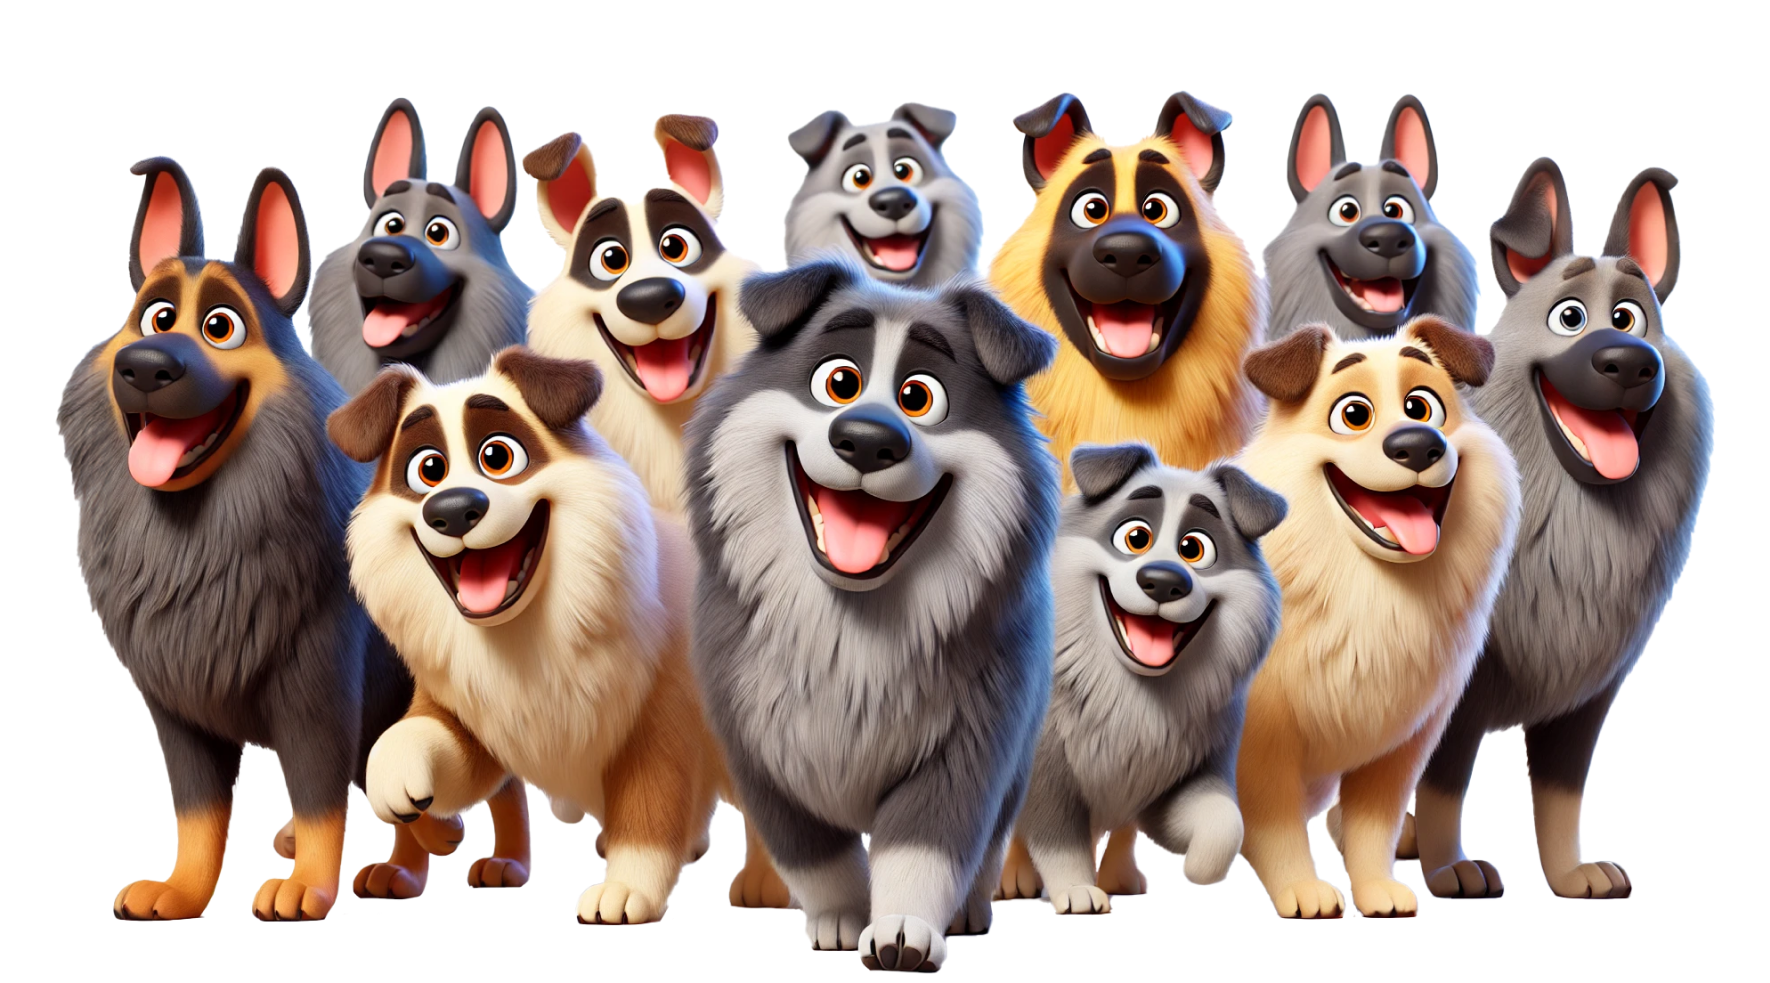
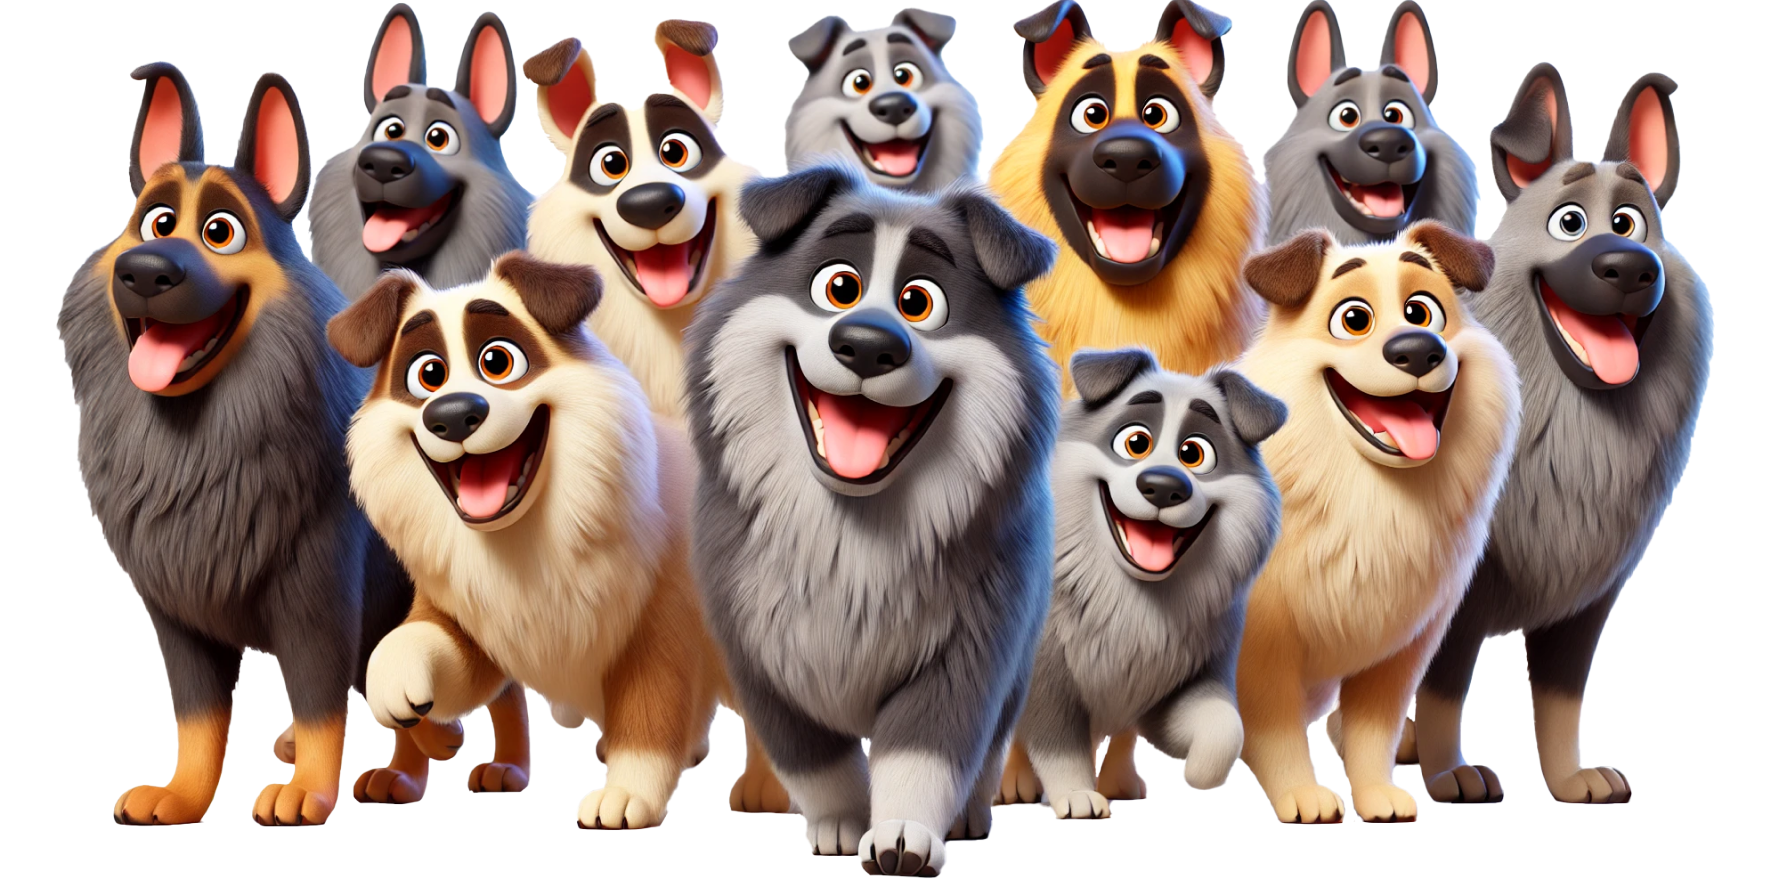
added responsiveness

diff --git a/src/index.css b/src/index.css
@@ -3,6 +3,8 @@
   src: url("../public/Fonts/cheeseburga.ttf");
 }
 
+
+
 #root{
   font-size: 16px;
 }
@@ -103,7 +105,7 @@ body {
         background-color: var(--white);
         left: 50%; 
         transform: translateX(-50%);        
-        width: 85%;
+        width: 85vw;
         height: 90vh;
         overflow-y: hidden;  
         border-radius: 1.5em 1.5em 0 0;
@@ -123,6 +125,7 @@ body {
 
 .landing-page-container{
   width: 100%;
+  
 }
 
 .landing-page-container .top-rectangle{
@@ -131,19 +134,19 @@ body {
   background: var(--lightyellow);
   margin: 1.2em auto;
   border-radius: 1.5em;
+  
 }
 
 .landing-page-container .header{
   display: flex;
   align-items:flex-start;
   justify-content: space-between;
-  height: 43.05938rem;
-
+  margin-bottom: 5em;
 }
 
 .landing-page-container .bg-triangle{
   width: 86.74263rem;
-  height: 59.05938rem;
+  height: 53.05938rem;
   transform: rotate(8deg);
   background: radial-gradient(44.22% 45.51% at 50.14% 67.33%, #FFF280 0%, #FFC700 100%);;
   position: absolute;
@@ -152,9 +155,18 @@ body {
   z-index: -1;
 }
 
-.landing-page-container .header img{
+.header .header-image{
   width: 55%;
-  margin-left: -3rem;
+  margin-left: -1rem;
+  position: relative;
+}
+
+.header-image-reflection{
+  position: absolute;
+  width: 55%;
+  margin-top: -20px;
+  left: 0px;
+  z-index: -1;
 }
 
 .landing-page-content h1{
@@ -181,6 +193,80 @@ body {
   font-weight: 700;
   line-height: 104.73%;
   margin: 0;
+}
+
+@media (max-width:800px) {
+
+  
+  .heading-white, .heading-orange{
+    font-size: 7rem;
+  }
+
+  .landing-page-main{        
+        width: 80vw;
+}
+
+.landing-page-container .header{
+  display: flex;
+  align-items: center;
+  justify-content: space-between;
+  flex-direction: column;
+}
+
+.landing-page-container .bg-triangle{
+  height: 66.05938rem;
+}
+
+.header .header-image{
+  margin-left: 0;
+}
+
+.header-image-reflection{
+  left: 50%;
+  transform: translateX(-50%);
+  margin-top: -5px;
+}
+
+.landing-page-content h1{
+  text-align: center;
+  font-size: 3rem;
+  margin-top: 1em;
+}
+
+.landing-page-content p{
+  text-wrap: pretty;
+  text-align: center;
+  font-size: 1.5rem;
+  font-style: normal;
+  font-weight: 700;
+  line-height: 104.73%;
+  margin: 0;
+}
+  
+}
+
+@media (max-width:550px) {
+
+   .heading-white, .heading-orange{
+    font-size: 6rem;
+  }
+
+
+  .landing-page-main{        
+        width: 70vw;
+}
+
+
+.landing-page-container .bg-triangle{
+  height: 60.05938rem;
+}
+
+
+.landing-page-content p{
+  font-size: 1.3rem;
+  
+}
+  
 }
 
 /* main landing page- section 2- all photos videos slider */
@@ -227,10 +313,12 @@ body {
 .project-vision-animals-reflection{
   width: 100%;
   position: absolute;
-  top: 640px;
-  left: 10px;
+  /* top: 470px; */
+  /* left: 10px; */
   transform: rotate(-2deg);
-  z-index: -1;
+  z-index: 0;
+  margin-top: 50px;
+
 }
 
 .project-vision-bg{
@@ -251,12 +339,56 @@ body {
   text-align: center;
   margin-top: 2em;
 }
+@media (max-width:950px) {
+  .project-vision-animals-reflection{
+  margin-top: 230px;
+  
+}
 
+.project-vision-bg{
+  top: 240px;
+  left: -325px;
+  height: 70rem;
+  width: 100rem;
+}
+
+@media (max-width:800px){
+  .project-vision-bg{
+  top: 240px;
+  left: -425px;
+  height: 64rem;
+  width: 100rem;
+}
+}
+
+@media (max-width: 550px) {
+  .project-vision-main{
+  margin-top: 10em;
+}
+
+.project-vision-bg{
+  position: absolute;
+  top: 240px;
+  left: -500px;
+  z-index: -2;
+  height: 49rem;
+  width: 100rem;
+}
+
+.project-vision-main p{
+  font-size: 1.6rem;
+
+}
+}
+
+
+
+}
 /* Roadmap Section */
 
 .roadmap-main{
   margin-top: 7em;
-
+  margin-bottom: 7em;
 }
 
 .roadmap-container{
@@ -282,6 +414,19 @@ font-weight: 700;
   color: var(--orange);
 }
 
+@media (max-width:800px) {
+
+.roadmap-content{
+font-size: 1.7rem;
+}
+}
+
+@media (max-width:550px) {
+
+.roadmap-content{
+font-size: 1.3rem;
+}
+}
 
 /* COMPONENTS */
 
@@ -332,3 +477,14 @@ font-weight: 700;
   filter: drop-shadow(4px 6px 6px var(--black));
 }
 
+@media (max-width:800px){
+  .slide-image{
+  width: 40%;
+} 
+}
+
+@media (max-width:500px){
+  .slide-image{
+  width: 80%;
+} 
+}

diff --git a/src/Pages/LandingPage.js b/src/Pages/LandingPage.js
@@ -6,6 +6,11 @@ import ProjectVisionBg from "../Svgs/ProjectVisionBg.svg";
 export default function LandingPage() {
   const [isScrollable, setIsScrollable] = useState(false);
   const mainDivRef = useRef(null);
+  const headerImageRef = useRef(null);
+  const projectVisionImgRef = useRef(null);
+  const [headerImageHeight, setHeaderImageHeight] = useState(null);
+  const [projectVisionImageHeight, setProjectVisionImageHeight] =
+    useState(null);
 
   useEffect(() => {
     const handleScroll = () => {
@@ -27,6 +32,35 @@ export default function LandingPage() {
     };
   }, []);
 
+  useEffect(() => {
+    const handleHeaderImageHeight = () => {
+      setHeaderImageHeight(
+        headerImageRef?.current?.getBoundingClientRect().height
+      );
+    };
+
+    const handleProjectVisionImageHeight = () => {
+      setProjectVisionImageHeight(
+        projectVisionImgRef?.current?.getBoundingClientRect().height
+      );
+    };
+
+    handleHeaderImageHeight();
+    handleProjectVisionImageHeight();
+
+    window.addEventListener("resize", () => {
+      handleHeaderImageHeight();
+      handleProjectVisionImageHeight();
+    });
+
+    return () => {
+      window.removeEventListener("resize", () => {
+        handleHeaderImageHeight();
+        handleProjectVisionImageHeight();
+      });
+    };
+  }, []);
+
   return (
     <div
       className={`landing-page-main ${isScrollable ? "scrollable" : ""}`}
@@ -37,7 +71,20 @@ export default function LandingPage() {
         <header className="header">
           <div className="bg-triangle"></div>
 
-          <img src="Images/landing-page-header.png" alt="Happy Alabay Dog" />
+          <img
+            src="Images/landing-page-header.png"
+            alt="Happy Alabay Dog"
+            className="header-image"
+            ref={headerImageRef}
+          />
+          <img
+            src="Images/landing-page-header-reflection.png"
+            alt="Happy Alabay Dog Reflection"
+            className="header-image-reflection"
+            style={{
+              top: headerImageHeight,
+            }}
+          />
           <div className="landing-page-content">
             <h1>
               History Of<span className="heading-white"> ALABAY</span>
@@ -66,12 +113,17 @@ export default function LandingPage() {
             src="Images/landing-page-project-vision.png"
             alt="Many dogs"
             className="project-vision-animals"
+            ref={projectVisionImgRef}
           />
           <img
             src="Images/landing-page-project-vision-reflection.png"
             alt="Many dogs reflection"
             className="project-vision-animals-reflection"
+            style={{
+              top: projectVisionImageHeight,
+            }}
           />
+          {console.log("project vision image height", projectVisionImageHeight)}
           <img
             src={ProjectVisionBg}
             alt="background"

diff --git a/src/Components/Slider.js b/src/Components/Slider.js
@@ -4,8 +4,17 @@ import ArrowRight from "../Svgs/ArrowRight.svg";
 export default function Slider({ data }) {
   const [currentSlide, setCurrentSlide] = useState(0);
   const visibleGalleryRef = useRef(null);
-  const slidesPerClick = 3;
   const totalSlides = data.slides.length;
+
+  let slidesPerClick = 3;
+
+  if (window.innerWidth > 950) {
+    slidesPerClick = 3;
+  } else if (window.innerWidth > 550) {
+    slidesPerClick = 2;
+  } else {
+    slidesPerClick = 1;
+  }
 
   function handleNextClick() {
     setCurrentSlide((prevState) => {
